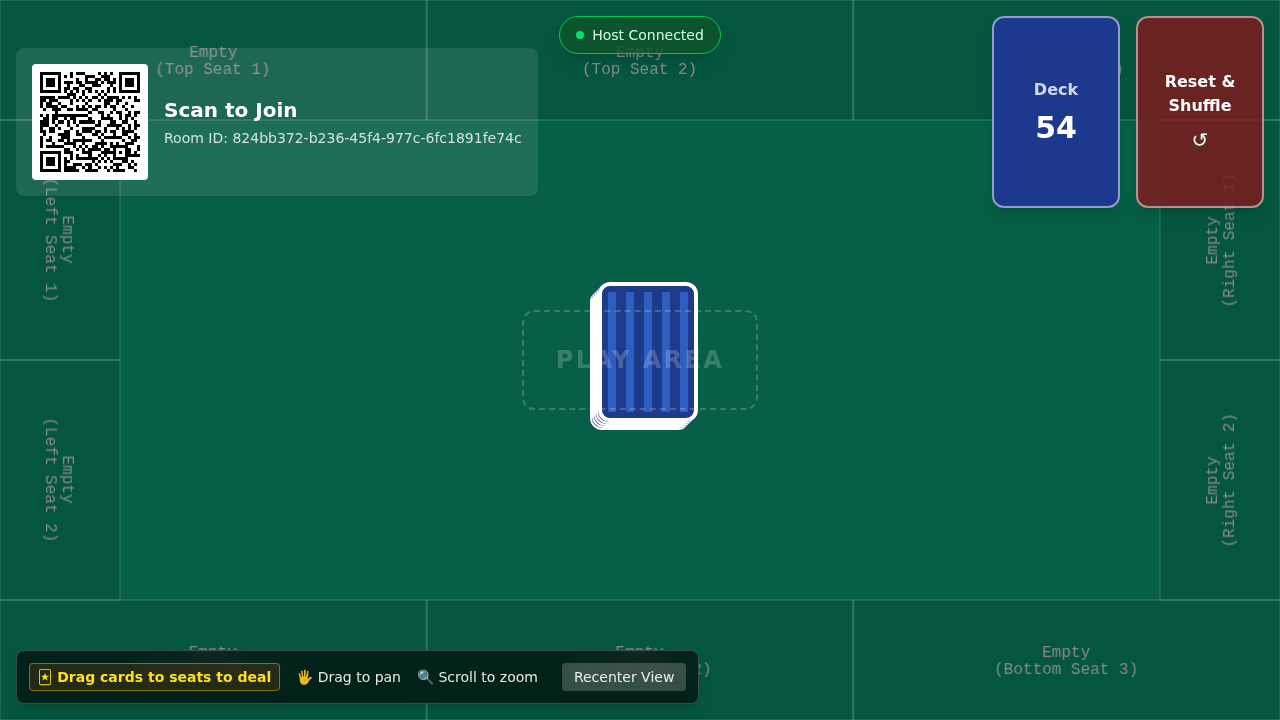
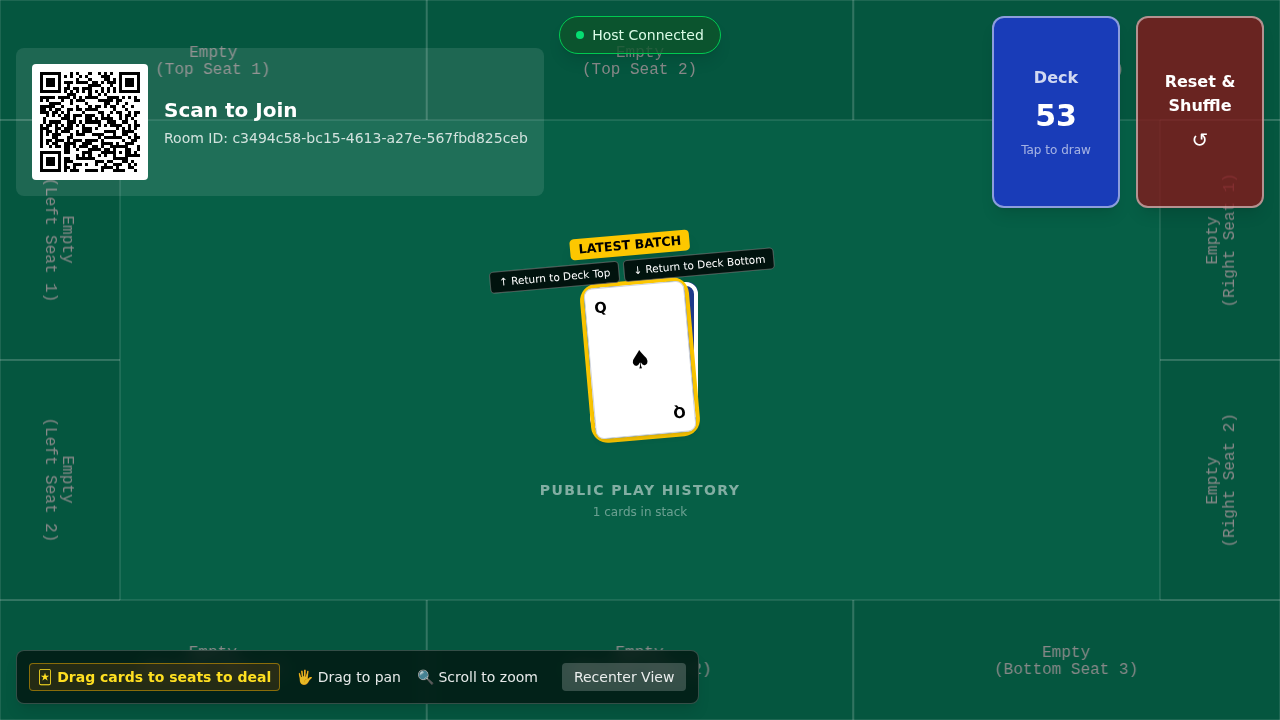
feat: improve host-side discoverability of play stack (#35)
- Renamed "To Top" and "To Bottom" buttons to "↑ Return to Deck Top" and "↓ Return to Deck Bottom" for clarity
- Added "Public Play History" label and card count below the play area when cards are present in the stack
- Applied whitespace-nowrap to buttons to prevent awkward wrapping
- Tested visually using Playwright test_host.py

diff --git a/src/pages/Host.tsx b/src/pages/Host.tsx
@@ -114,18 +114,18 @@ export default function Host() {
                             e.stopPropagation();
                             window.dispatchEvent(new CustomEvent('host-return-batch', { detail: { toTop: true } }));
                           }}
-                          className="bg-black/80 hover:bg-black text-white text-[10px] px-2 py-0.5 rounded border border-white/30 transition-colors"
+                          className="bg-black/80 hover:bg-black text-white text-[10px] px-2 py-0.5 rounded border border-white/30 transition-colors whitespace-nowrap"
                         >
-                          ↑ To Top
+                          ↑ Return to Deck Top
                         </button>
                         <button
                           onClick={(e) => {
                             e.stopPropagation();
                             window.dispatchEvent(new CustomEvent('host-return-batch', { detail: { toTop: false } }));
                           }}
-                          className="bg-black/80 hover:bg-black text-white text-[10px] px-2 py-0.5 rounded border border-white/30 transition-colors"
+                          className="bg-black/80 hover:bg-black text-white text-[10px] px-2 py-0.5 rounded border border-white/30 transition-colors whitespace-nowrap"
                         >
-                          ↓ To Bottom
+                          ↓ Return to Deck Bottom
                         </button>
                       </div>
                     </div>
@@ -158,6 +158,16 @@ export default function Host() {
             {gameState.playStack.length === 0 && (
               <div className="text-white/20 font-bold text-2xl uppercase tracking-widest border-2 border-dashed border-white/20 p-8 rounded-xl">
                 Play Area
+              </div>
+            )}
+            {gameState.playStack.length > 0 && (
+              <div className="absolute -bottom-8 text-center z-10 pointer-events-none">
+                <div className="text-white/50 font-bold text-sm uppercase tracking-widest">
+                  Public Play History
+                </div>
+                <div className="text-white/40 text-xs font-medium mt-1">
+                  {gameState.playStack.reduce((acc, batch) => acc + batch.length, 0)} cards in stack
+                </div>
               </div>
             )}
           </div>

diff --git a/test_draw.py b/test_draw.py
@@ -1,0 +1,22 @@
+import os
+from playwright.sync_api import sync_playwright
+
+def run():
+    with sync_playwright() as p:
+        browser = p.chromium.launch()
+        page = browser.new_page()
+        # Navigate directly to the host URL
+        app_url = os.environ.get("APP_URL", "http://localhost:4173/")
+        page.goto(app_url + "#/host")
+        page.wait_for_selector(".absolute.top-4.right-4", state="attached")
+        page.wait_for_timeout(3000)
+
+        # Click the deck to draw to table
+        page.click("text=Deck")
+        page.wait_for_timeout(1000)
+
+        page.screenshot(path="verification_host.png")
+        browser.close()
+
+if __name__ == "__main__":
+    run()
